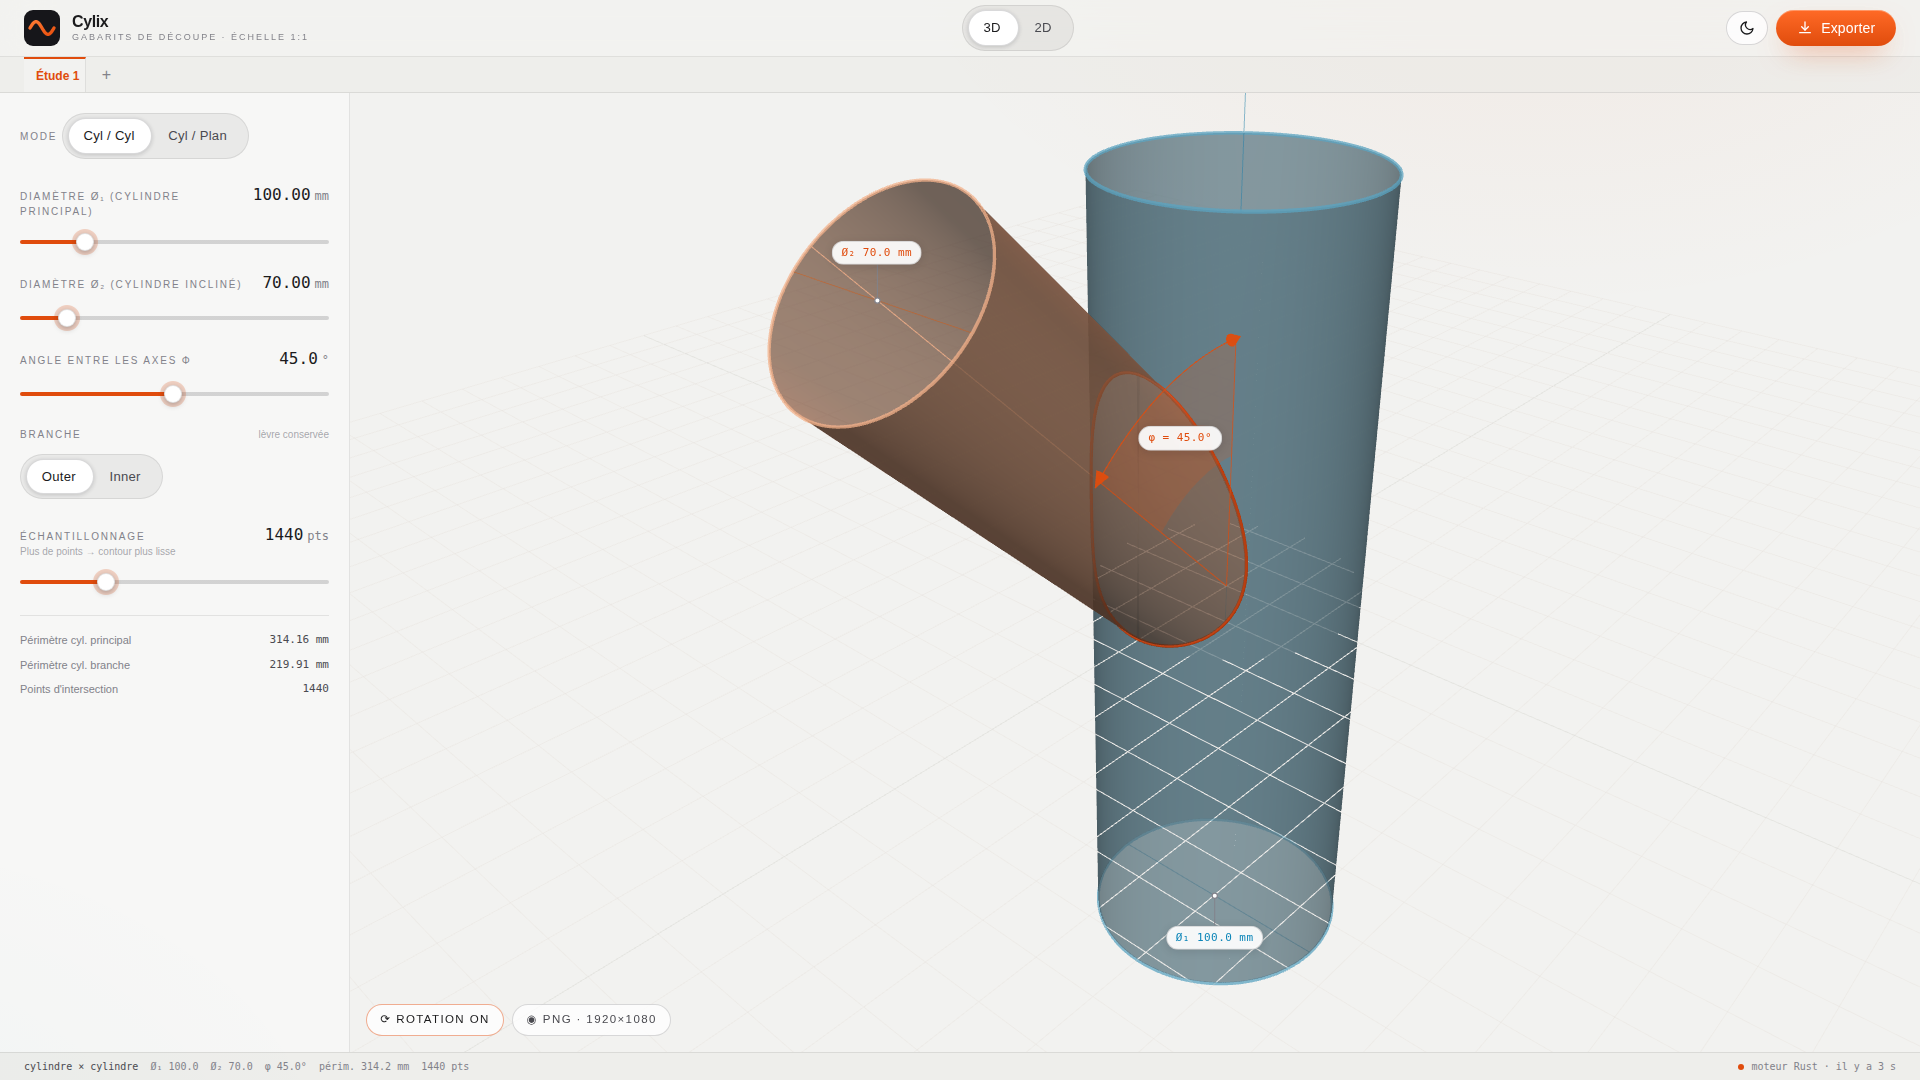
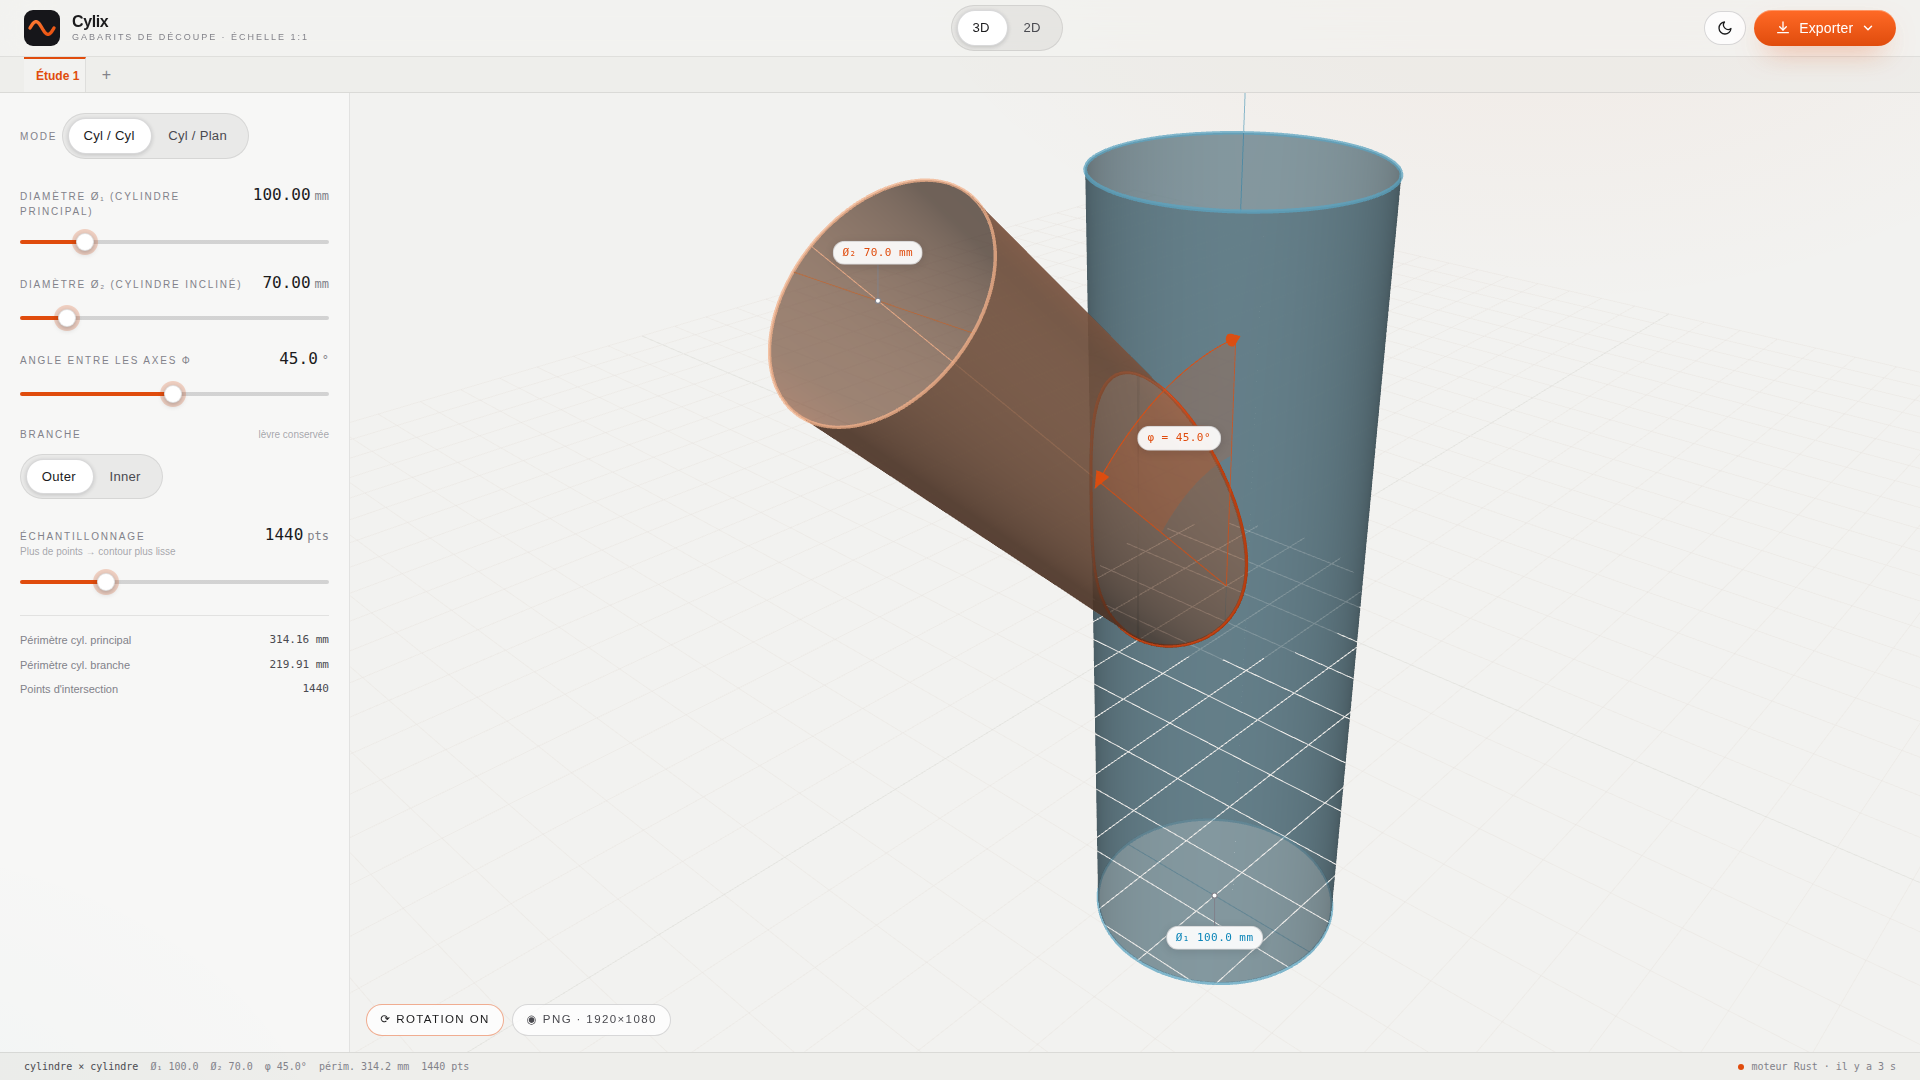
Export menu (PDF or DXF) and PDF pages as exact snapshots of the 2D views
- The header Exporter button opens a two-choice menu: PDF 1:1 (tiled,
  glue marks) or DXF R12 (CAD/CNC), with descriptions; click-outside
  closes, busy state shared.
- The PDF now mirrors the 2D canvases' visual language: cut line in the
  pattern's accent colour (ember for the tube template, deep cyan for the
  gueule de loup), generatrices and their degree labels in the app cyan,
  datum and helpers in grey — same cropping, same layers, same marks.

Claude-Session: https://claude.ai/code/session_01DVYZEnZfpxvTCaQceh5G1Y

diff --git a/web/src/components/Header.svelte b/web/src/components/Header.svelte
@@ -4,6 +4,22 @@
   import { store, type View } from "../lib/store.svelte";
   import { editor } from "../lib/editor.svelte";
 
+  let exportMenu = $state(false);
+
+  function pick(kind: "pdf" | "dxf") {
+    exportMenu = false;
+    if (kind === "pdf") editor.exportPdf();
+    else editor.exportDxf();
+  }
+
+  function clickOutside(node: HTMLElement) {
+    const onDown = (e: PointerEvent) => {
+      if (!node.contains(e.target as Node)) exportMenu = false;
+    };
+    document.addEventListener("pointerdown", onDown, true);
+    return { destroy: () => document.removeEventListener("pointerdown", onDown, true) };
+  }
+
   const viewOptions = [
     { label: "3D", value: "3d" as View },
     { label: "2D", value: "2d" as View },
@@ -63,26 +79,69 @@
           </svg>
         {/if}
       </button>
-      <button
-        class="btn-primary !py-2 text-sm"
-        disabled={editor.busy !== null || !store.result}
-        onclick={() => editor.exportPdf()}
-        aria-label="Exporter le PDF 1:1"
-        title="Exporter le PDF vectoriel à l'échelle 1:1"
-      >
-        <svg
-          viewBox="0 0 24 24"
-          class="w-4 h-4 fill-none stroke-current"
-          stroke-width="2"
-          stroke-linecap="round"
-          stroke-linejoin="round"
+      <div class="relative" use:clickOutside>
+        <button
+          class="btn-primary !py-2 text-sm"
+          disabled={editor.busy !== null || !store.result}
+          onclick={() => (exportMenu = !exportMenu)}
+          aria-haspopup="menu"
+          aria-expanded={exportMenu}
+          aria-label="Exporter"
+          title="Exporter — le cliché exact des vues 2D, en PDF 1:1 ou DXF"
         >
-          <path d="M12 3v12" />
-          <path d="m7 10 5 5 5-5" />
-          <path d="M4 19h16" />
-        </svg>
-        {editor.busy === "pdf" ? "export…" : "Exporter"}
-      </button>
+          <svg
+            viewBox="0 0 24 24"
+            class="w-4 h-4 fill-none stroke-current"
+            stroke-width="2"
+            stroke-linecap="round"
+            stroke-linejoin="round"
+          >
+            <path d="M12 3v12" />
+            <path d="m7 10 5 5 5-5" />
+            <path d="M4 19h16" />
+          </svg>
+          {editor.busy !== null ? "export…" : "Exporter"}
+          <svg
+            viewBox="0 0 24 24"
+            class="w-3.5 h-3.5 fill-none stroke-current transition-transform {exportMenu
+              ? 'rotate-180'
+              : ''}"
+            stroke-width="2.5"
+            stroke-linecap="round"
+            stroke-linejoin="round"
+          >
+            <path d="m6 9 6 6 6-6" />
+          </svg>
+        </button>
+
+        {#if exportMenu}
+          <div
+            class="absolute right-0 top-[calc(100%+8px)] w-64 glass-strong card-hairline rounded-2xl p-1.5 z-50"
+            role="menu"
+          >
+            <button
+              class="w-full text-left px-3.5 py-2.5 rounded-xl hover:bg-carbon transition-colors"
+              role="menuitem"
+              onclick={() => pick("pdf")}
+            >
+              <div class="text-[13.5px] font-medium text-pearl">PDF · échelle 1:1</div>
+              <div class="text-[11px] text-ash leading-snug mt-0.5">
+                Tuilé avec repères de collage — imprimer, enrouler, couper.
+              </div>
+            </button>
+            <button
+              class="w-full text-left px-3.5 py-2.5 rounded-xl hover:bg-carbon transition-colors"
+              role="menuitem"
+              onclick={() => pick("dxf")}
+            >
+              <div class="text-[13.5px] font-medium text-pearl">DXF · CAO / CNC</div>
+              <div class="text-[11px] text-ash leading-snug mt-0.5">
+                R12 en mm, calques CUT / FRAME / AXIS — laser, plasma, CAO.
+              </div>
+            </button>
+          </div>
+        {/if}
+      </div>
     </div>
   </div>
 </header>

diff --git a/src/export/pdf.rs b/src/export/pdf.rs
@@ -59,6 +59,14 @@ impl Cs {
         self.push(&format!("{g:.3} G"));
     }
 
+    fn stroke_rgb(&mut self, r: f64, g: f64, b: f64) {
+        self.push(&format!("{r:.3} {g:.3} {b:.3} RG"));
+    }
+
+    fn fill_rgb(&mut self, r: f64, g: f64, b: f64) {
+        self.push(&format!("{r:.3} {g:.3} {b:.3} rg"));
+    }
+
     fn fill_gray(&mut self, g: f64) {
         self.push(&format!("{g:.3} g"));
     }
@@ -257,7 +265,7 @@ fn draw_model(cs: &mut Cs, doc: &ExportDocument, sheet: &Sheet) {
         // wrap-alignment marks — match them with lines traced on the tube.
         cs.save();
         cs.line_width(0.12);
-        cs.stroke_gray(0.35);
+        cs.stroke_rgb(0.20, 0.55, 0.70);
         cs.dash(3.0, 1.2);
         let (_fx, fy, _fw, fh) = sheet.frame;
         let gens = sheet.generatrices();
@@ -268,6 +276,7 @@ fn draw_model(cs: &mut Cs, doc: &ExportDocument, sheet: &Sheet) {
         // Axis-plane datum v = 0: longitudinal positioning reference.
         let (_, v0, _, v1) = sheet.bbox;
         if v0 < 0.0 && v1 > 0.0 {
+            cs.stroke_gray(0.25);
             cs.dash(5.0, 1.6);
             cs.segment(sheet.bbox.0, 0.0, sheet.bbox.2, 0.0);
         }
@@ -283,22 +292,27 @@ fn draw_model(cs: &mut Cs, doc: &ExportDocument, sheet: &Sheet) {
         }
 
         if doc.layers.labels {
-            cs.fill_gray(0.35);
+            cs.fill_rgb(0.20, 0.55, 0.70);
             for &(u, deg) in &gens {
                 cs.text(1, 2.4, u + 0.8, fy + 0.9, &format!("{deg}°"));
             }
             if v0 < 0.0 && v1 > 0.0 {
+                cs.fill_gray(0.25);
                 cs.text(1, 2.0, sheet.bbox.0 + 1.0, 0.7, "réf. plan des axes");
             }
         }
         cs.restore();
     }
 
-    // The cut line itself — pure black, exact requested width.
+    // The cut line itself — the pattern's accent colour, mirroring the 2D
+    // view (kept dark enough to trace and cut confidently).
     cs.save();
     cs.solid();
     cs.line_width(doc.cut_width_mm);
-    cs.stroke_gray(0.0);
+    match sheet.kind {
+        super::PatternKind::Branch => cs.stroke_rgb(0.80, 0.27, 0.04),
+        super::PatternKind::Main => cs.stroke_rgb(0.03, 0.45, 0.62),
+    }
     cs.polyline(&sheet.cut, sheet.closed);
     cs.restore();
 
